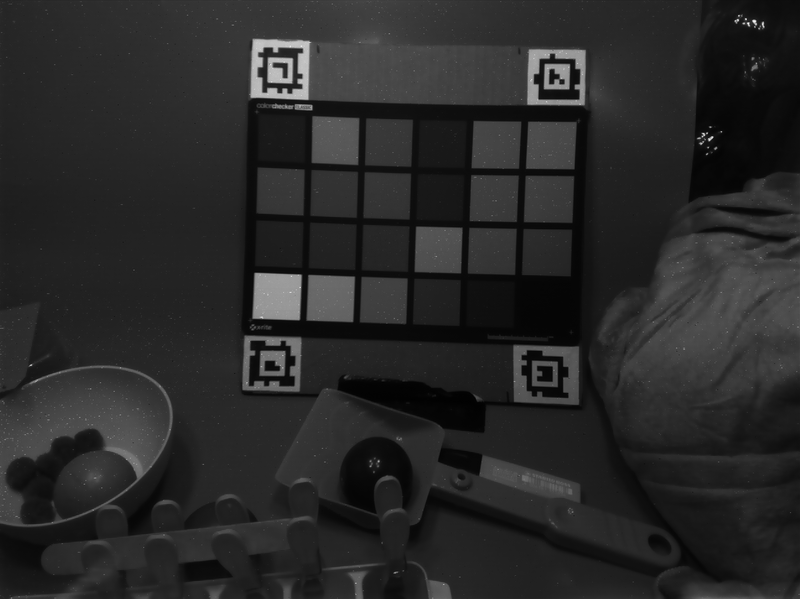
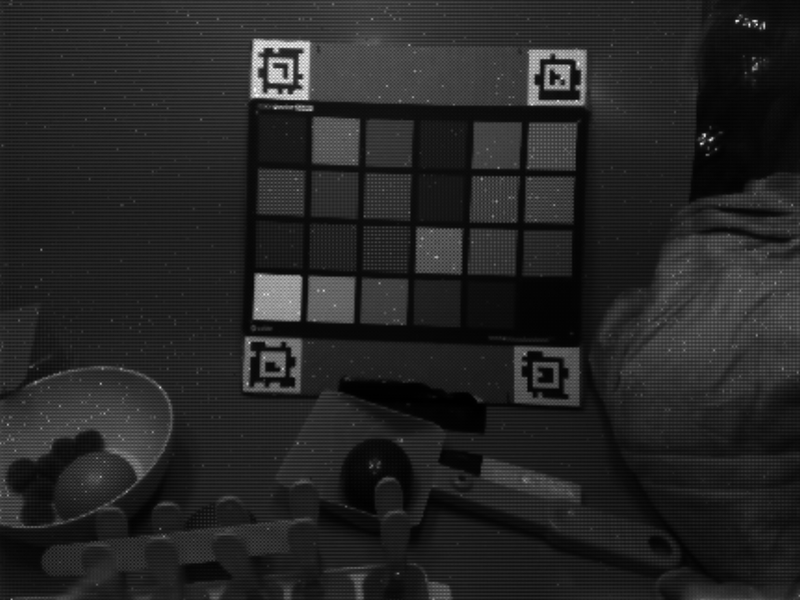
Add slider to browse all 31 spectral bands in Case Study 5

diff --git a/case5/frontend/Case5.jsx b/case5/frontend/Case5.jsx
@@ -1,8 +1,28 @@
 import { useState } from 'react';
 import { Link } from 'react-router-dom';
 
+// Number of spectral bands (400-700nm at 10nm intervals)
+const NUM_BANDS = 31;
+const WAVELENGTH_START = 400;
+const WAVELENGTH_STEP = 10;
+
 export default function Case5() {
   const [showMIS, setShowMIS] = useState(false);
+  const [selectedBand, setSelectedBand] = useState(15); // Default to 550nm (middle of visible spectrum)
+
+  // Calculate wavelength from band index
+  const getWavelength = (bandIndex) => WAVELENGTH_START + bandIndex * WAVELENGTH_STEP;
+  
+  // Get approximate color for wavelength (for visual indicator)
+  const getWavelengthColor = (wavelength) => {
+    if (wavelength < 450) return '#8B00FF'; // Violet
+    if (wavelength < 480) return '#0000FF'; // Blue
+    if (wavelength < 510) return '#00FFFF'; // Cyan
+    if (wavelength < 560) return '#00FF00'; // Green
+    if (wavelength < 590) return '#FFFF00'; // Yellow
+    if (wavelength < 620) return '#FF7F00'; // Orange
+    return '#FF0000'; // Red
+  };
 
   return (
     <div className="min-h-screen bg-white">
@@ -98,18 +118,53 @@ export default function Case5() {
               ) : (
                 <div>
                   <img 
-                    src={`${import.meta.env.BASE_URL}case5/data/mis_band_00.png`}
-                    alt="MIS Multispectral mosaic image"
+                    src={`${import.meta.env.BASE_URL}case5/data/mis_band_${selectedBand.toString().padStart(2, '0')}.png`}
+                    alt={`MIS Spectral band ${selectedBand} (${getWavelength(selectedBand)}nm)`}
                     className="w-full"
                   />
                   <div className="bg-gray-50 p-4">
-                    <h3 className="font-medium text-gray-900">Multispectral Imaging System (MIS)</h3>
-                    <p className="text-sm text-gray-600">
-                      Grayscale visualization of the multispectral mosaic image. 
-                      The MIS captures 31 spectral bands (400-700nm) in a spatial mosaic pattern.
+                    <h3 className="font-medium text-gray-900">
+                      Multispectral Band: {getWavelength(selectedBand)}nm
+                      <span 
+                        className="inline-block w-4 h-4 ml-2 rounded-full align-middle"
+                        style={{ backgroundColor: getWavelengthColor(getWavelength(selectedBand)) }}
+                      />
+                    </h3>
+                    
+                    {/* Band Slider */}
+                    <div className="mt-4 space-y-2">
+                      <div className="flex justify-between text-xs text-gray-500">
+                        <span>400nm (Violet)</span>
+                        <span>550nm (Green)</span>
+                        <span>700nm (Red)</span>
+                      </div>
+                      <input
+                        type="range"
+                        min="0"
+                        max={NUM_BANDS - 1}
+                        value={selectedBand}
+                        onChange={(e) => setSelectedBand(parseInt(e.target.value))}
+                        className="w-full h-3 rounded-lg appearance-none cursor-pointer"
+                        style={{
+                          background: 'linear-gradient(to right, violet, blue, cyan, green, yellow, orange, red)'
+                        }}
+                      />
+                      <div className="flex justify-between items-center">
+                        <span className="text-sm text-gray-600">
+                          Band {selectedBand + 1} of {NUM_BANDS}
+                        </span>
+                        <span className="text-sm font-medium" style={{ color: getWavelengthColor(getWavelength(selectedBand)) }}>
+                          {getWavelength(selectedBand)}nm
+                        </span>
+                      </div>
+                    </div>
+                    
+                    <p className="text-sm text-gray-600 mt-3">
+                      Grayscale image showing reflectance at {getWavelength(selectedBand)}nm wavelength.
+                      Use the slider to explore all 31 spectral bands.
                     </p>
                     <p className="text-xs text-gray-500 mt-1">
-                      Original resolution: 2584 × 1936 pixels
+                      Original resolution: 2584 × 1936 pixels (mosaic demosaiced)
                     </p>
                   </div>
                 </div>

diff --git a/scripts/modal_generate_case5_data.py b/scripts/modal_generate_case5_data.py
@@ -3,6 +3,10 @@ Generate data for Case Study 5: Multispectral Imaging.
 
 This script extracts a random WT sample from the beyondRGB dataset on the Modal volume,
 converts the HDF5 data to PNG images, and returns them for the frontend.
+
+The MIS camera uses a 6x6 mosaic filter array where different pixel locations correspond
+to different spectral bands. We extract all 31 bands (400-700nm at 10nm intervals) from
+the mosaic pattern.
 """
 
 import modal
@@ -15,8 +19,59 @@ volume = modal.Volume.from_name("jlmlcasestudies")
 
 # Define image with required dependencies
 image = modal.Image.debian_slim(python_version="3.11").pip_install(
-    "h5py", "numpy", "pillow"
+    "h5py", "numpy", "pillow", "scipy"
 )
+
+
+# MIS mosaic pattern - 6x6 pattern with 31 spectral bands + 5 reference pixels
+# Band indices 0-30 correspond to wavelengths 400-700nm at 10nm intervals
+# The mosaic pattern maps (row % 6, col % 6) -> band index
+# This is based on the Beyond RGB paper's mosaic filter array design
+MIS_MOSAIC_PATTERN = [
+    [0, 1, 2, 3, 4, 5],
+    [6, 7, 8, 9, 10, 11],
+    [12, 13, 14, 15, 16, 17],
+    [18, 19, 20, 21, 22, 23],
+    [24, 25, 26, 27, 28, 29],
+    [30, 31, 32, 33, 34, 35],  # 31-35 are reference/unused
+]
+
+
+def extract_spectral_bands(mosaic_data, n_bands=31):
+    """
+    Extract spectral bands from a mosaic image.
+    
+    The MIS camera captures 31 spectral bands in a 6x6 mosaic pattern.
+    Each band's pixels are at specific (row % 6, col % 6) positions.
+    
+    We use bilinear interpolation to create full-resolution images for each band.
+    """
+    import numpy as np
+    from scipy.ndimage import zoom
+    
+    h, w = mosaic_data.shape
+    bands = []
+    
+    # Calculate output dimensions (1/6 of original, then upscaled)
+    out_h = h // 6
+    out_w = w // 6
+    
+    for band_idx in range(n_bands):
+        # Find position in 6x6 pattern for this band
+        band_row = band_idx // 6
+        band_col = band_idx % 6
+        
+        # Extract pixels for this band (every 6th pixel starting at pattern position)
+        band_data = mosaic_data[band_row::6, band_col::6]
+        
+        # Resize to match a reasonable output resolution using bilinear interpolation
+        # Scale up by 2x to get a smoother image
+        scale_factor = 2.0
+        band_upscaled = zoom(band_data, scale_factor, order=1)
+        
+        bands.append(band_upscaled)
+    
+    return bands
 
 
 @app.function(
@@ -78,7 +133,6 @@ def generate_case5_images():
         print(f"MIS shape: {mis_data.shape}, dtype: {mis_data.dtype}")
     
     # Process OPPO RGB image
-    # Normalize to 0-255 range
     oppo_min = np.min(oppo_data)
     oppo_max = np.max(oppo_data)
     print(f"OPPO value range: {oppo_min} to {oppo_max}")
@@ -86,9 +140,8 @@ def generate_case5_images():
     # Scale to 0-255
     oppo_normalized = ((oppo_data - oppo_min) / (oppo_max - oppo_min + 1e-8) * 255).astype(np.uint8)
     
-    # Resize for web (too large otherwise)
+    # Resize for web (max 800px width)
     oppo_img = Image.fromarray(oppo_normalized)
-    # Resize to reasonable web size (max 800px width)
     max_width = 800
     aspect_ratio = oppo_img.height / oppo_img.width
     new_width = min(oppo_img.width, max_width)
@@ -102,96 +155,60 @@ def generate_case5_images():
     
     print(f"OPPO PNG size: {len(oppo_png)} bytes, dimensions: {new_width}x{new_height}")
     
-    # Process MIS multispectral image
-    # MIS is 2D with shape (H, W) but actually contains 31 spectral bands interleaved
-    # Based on the paper, MIS has 31 channels from 400-700nm in 10nm steps
+    # Process MIS multispectral image - extract all 31 bands
+    print(f"Extracting 31 spectral bands from MIS mosaic (shape: {mis_data.shape})")
+    
     mis_bands = []
     
-    # The MIS data appears to be (H, W) shaped - need to understand the format better
-    # Let's check if it's already separated or needs processing
     if len(mis_data.shape) == 2:
-        # Single 2D array - this is the full multispectral cube flattened
-        # According to the paper, there are 31 spectral bands
-        # The data might be stored as a single grayscale image per band
-        # or interleaved in some way
+        # 2D mosaic - extract 31 bands using the mosaic pattern
+        spectral_bands = extract_spectral_bands(mis_data, n_bands=31)
         
-        # For now, treat as a single grayscale image and create bands by region
-        # Actually, looking at typical MIS formats, the 31 bands are likely
-        # stored in separate files or the shape indicates something else
+        for band_idx, band_data in enumerate(spectral_bands):
+            # Normalize each band independently
+            band_min = np.min(band_data)
+            band_max = np.max(band_data)
+            band_normalized = ((band_data - band_min) / (band_max - band_min + 1e-8) * 255).astype(np.uint8)
+            
+            # Create grayscale image
+            band_img = Image.fromarray(band_normalized, mode='L')
+            
+            # Resize to match OPPO dimensions
+            band_img_resized = band_img.resize((new_width, new_height), Image.Resampling.LANCZOS)
+            
+            # Convert to PNG bytes
+            band_buffer = io.BytesIO()
+            band_img_resized.save(band_buffer, format="PNG")
+            mis_bands.append(band_buffer.getvalue())
+            
+            wavelength = 400 + band_idx * 10
+            if band_idx % 10 == 0:
+                print(f"  Band {band_idx}: {wavelength}nm - {len(mis_bands[-1])} bytes")
         
-        # Let's create a visualization of the single MIS image
-        # and also create pseudo-bands by splitting
-        print(f"MIS is 2D: {mis_data.shape}")
-        
-        # Normalize
-        mis_min = np.min(mis_data)
-        mis_max = np.max(mis_data)
-        print(f"MIS value range: {mis_min} to {mis_max}")
-        
-        mis_normalized = ((mis_data - mis_min) / (mis_max - mis_min + 1e-8) * 255).astype(np.uint8)
-        
-        # Create grayscale image
-        mis_img = Image.fromarray(mis_normalized, mode='L')
-        
-        # Resize to match OPPO dimensions approximately
-        mis_aspect = mis_img.height / mis_img.width
-        mis_new_width = min(mis_img.width, max_width)
-        mis_new_height = int(mis_new_width * mis_aspect)
-        mis_img_resized = mis_img.resize((mis_new_width, mis_new_height), Image.Resampling.LANCZOS)
-        
-        # Store as single "band" for now
-        mis_buffer = io.BytesIO()
-        mis_img_resized.save(mis_buffer, format="PNG")
-        mis_bands.append(mis_buffer.getvalue())
-        
-        print(f"MIS PNG size: {len(mis_bands[0])} bytes, dimensions: {mis_new_width}x{mis_new_height}")
+        print(f"Extracted {len(mis_bands)} spectral bands")
         
     elif len(mis_data.shape) == 3:
-        # 3D array - likely (H, W, C) or (C, H, W) where C=31 bands
+        # 3D array - already separated bands
         if mis_data.shape[2] <= 31:
-            # (H, W, C) format
             n_bands = mis_data.shape[2]
-            for band_idx in range(n_bands):
-                band_data = mis_data[:, :, band_idx]
-                # Normalize each band independently
-                band_min = np.min(band_data)
-                band_max = np.max(band_data)
-                band_normalized = ((band_data - band_min) / (band_max - band_min + 1e-8) * 255).astype(np.uint8)
-                
-                band_img = Image.fromarray(band_normalized, mode='L')
-                
-                # Resize
-                band_aspect = band_img.height / band_img.width
-                band_new_width = min(band_img.width, max_width)
-                band_new_height = int(band_new_width * band_aspect)
-                band_img_resized = band_img.resize((band_new_width, band_new_height), Image.Resampling.LANCZOS)
-                
-                band_buffer = io.BytesIO()
-                band_img_resized.save(band_buffer, format="PNG")
-                mis_bands.append(band_buffer.getvalue())
-                
-            print(f"Processed {n_bands} MIS bands")
         else:
-            # (C, H, W) format
             n_bands = mis_data.shape[0]
-            for band_idx in range(n_bands):
-                band_data = mis_data[band_idx, :, :]
-                band_min = np.min(band_data)
-                band_max = np.max(band_data)
-                band_normalized = ((band_data - band_min) / (band_max - band_min + 1e-8) * 255).astype(np.uint8)
-                
-                band_img = Image.fromarray(band_normalized, mode='L')
-                
-                band_aspect = band_img.height / band_img.width
-                band_new_width = min(band_img.width, max_width)
-                band_new_height = int(band_new_width * band_aspect)
-                band_img_resized = band_img.resize((band_new_width, band_new_height), Image.Resampling.LANCZOS)
-                
-                band_buffer = io.BytesIO()
-                band_img_resized.save(band_buffer, format="PNG")
-                mis_bands.append(band_buffer.getvalue())
-                
-            print(f"Processed {n_bands} MIS bands")
+            mis_data = np.transpose(mis_data, (1, 2, 0))
+            
+        for band_idx in range(min(n_bands, 31)):
+            band_data = mis_data[:, :, band_idx]
+            band_min = np.min(band_data)
+            band_max = np.max(band_data)
+            band_normalized = ((band_data - band_min) / (band_max - band_min + 1e-8) * 255).astype(np.uint8)
+            
+            band_img = Image.fromarray(band_normalized, mode='L')
+            band_img_resized = band_img.resize((new_width, new_height), Image.Resampling.LANCZOS)
+            
+            band_buffer = io.BytesIO()
+            band_img_resized.save(band_buffer, format="PNG")
+            mis_bands.append(band_buffer.getvalue())
+        
+        print(f"Processed {len(mis_bands)} MIS bands")
     
     return {
         "oppo_rgb": oppo_png,
@@ -199,6 +216,7 @@ def generate_case5_images():
         "sample_name": sample_name,
         "mis_shape": list(mis_data.shape),
         "oppo_shape": list(oppo_data.shape),
+        "n_bands": len(mis_bands),
     }
 
 
@@ -211,9 +229,9 @@ def main():
     print("Generating Case 5 images from beyondRGB dataset...")
     result = generate_case5_images.remote()
     
-    # Save to case5/data directory
+    # Save to public/case5/data directory for frontend
     script_dir = Path(__file__).parent
-    output_dir = script_dir.parent / "case5" / "data"
+    output_dir = script_dir.parent / "public" / "case5" / "data"
     output_dir.mkdir(parents=True, exist_ok=True)
     
     # Save OPPO RGB image
@@ -222,15 +240,16 @@ def main():
         f.write(result["oppo_rgb"])
     print(f"Saved OPPO RGB image: {oppo_path}")
     
-    # Save MIS bands
+    # Save all MIS bands
     for i, band_data in enumerate(result["mis_bands"]):
         band_path = output_dir / f"mis_band_{i:02d}.png"
         with open(band_path, "wb") as f:
             f.write(band_data)
-        print(f"Saved MIS band {i}: {band_path}")
+        wavelength = 400 + i * 10
+        print(f"Saved MIS band {i} ({wavelength}nm): {band_path}")
     
     print(f"\nSample: {result['sample_name']}")
     print(f"OPPO shape: {result['oppo_shape']}")
     print(f"MIS shape: {result['mis_shape']}")
-    print(f"\nTotal MIS bands: {len(result['mis_bands'])}")
+    print(f"\nTotal MIS bands: {result['n_bands']}")
     print(f"\nAll images saved to: {output_dir}")
